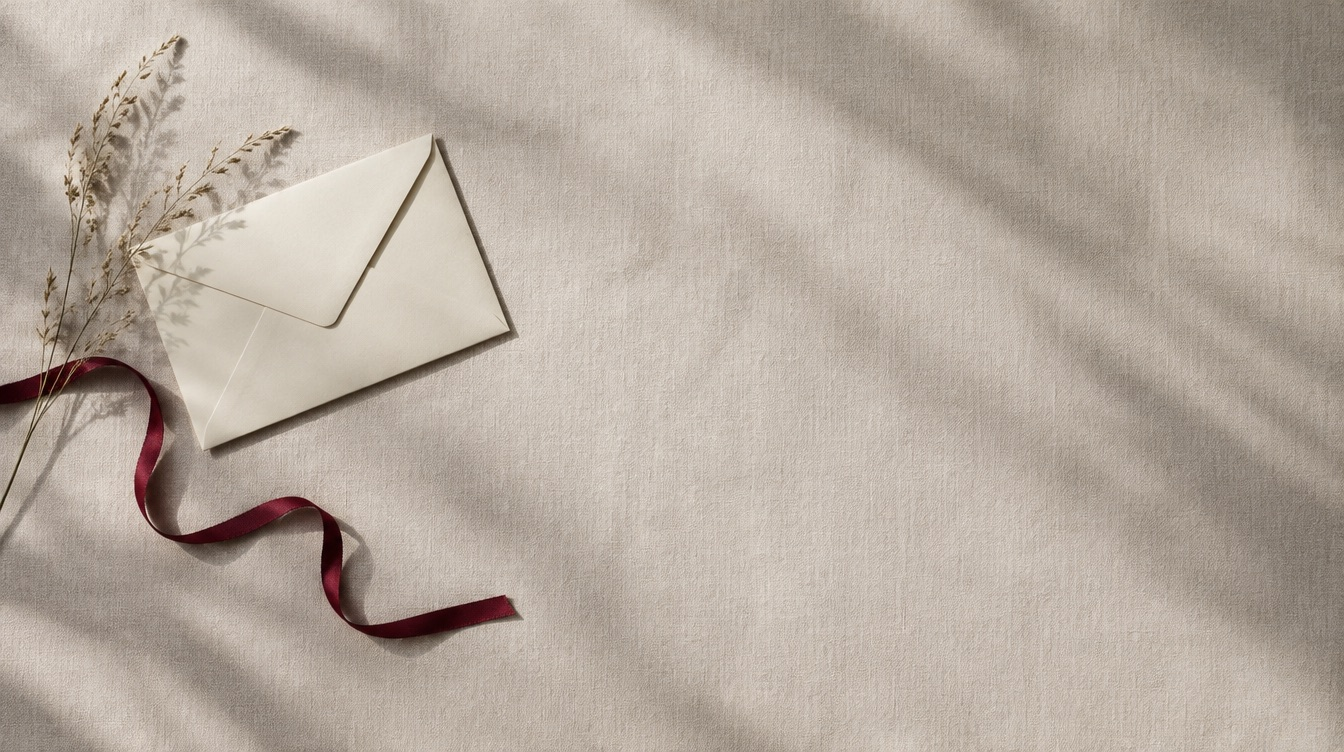
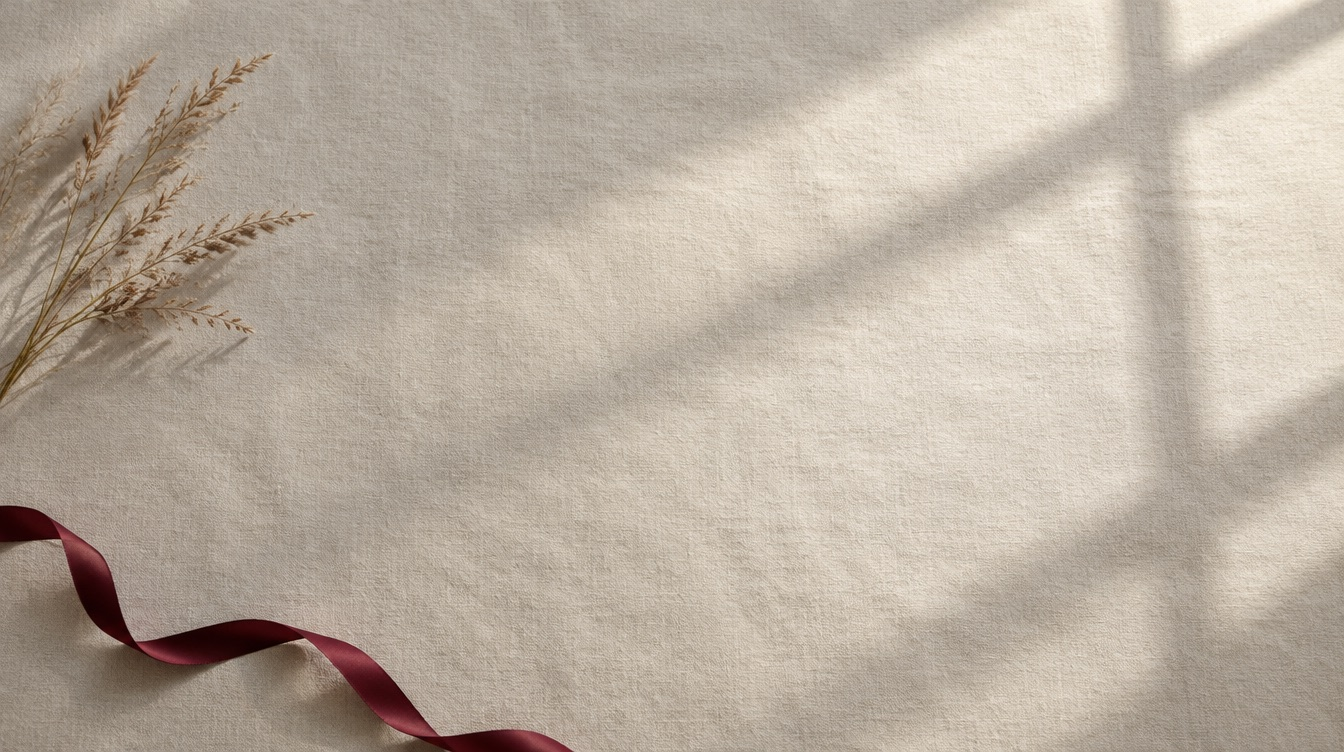
Products and Gift Vouchers: the photo is the whole hero (full-bleed 16:9, title on it). Products hero is a product photoshoot generated from the real Anubis packshots (HA+ Serum, Bakuchiol TRX 3.0, Thermal Toner on stone and wood risers); a sticky brand bar (All · Anubis Barcelona · V10 Plus · ELEME

diff --git a/src/assets/css/main.css b/src/assets/css/main.css
@@ -2075,3 +2075,50 @@ html.cd-lock { overflow: hidden; }
 .ghero-card { position: absolute; left: 50%; top: 14%; width: 40%; transform: rotate(-5deg); box-shadow: 0 30px 60px -28px rgba(65, 63, 66, .7), 0 4px 14px -8px rgba(65, 63, 66, .4); }
 .ghero-card img { display: block; width: 100%; height: auto; } .ghero-card:has(img[hidden]) { display: none; }
 @media (max-width: 700px) { .phero, .ghero { aspect-ratio: 4 / 3; } .phero-item { bottom: 20%; height: 44%; } .phero-item-1 { left: 36%; } .phero-item-2 { left: 56%; height: 40%; } .phero-item-3 { left: 77%; height: 48%; } .ghero-card { left: 44%; top: 20%; width: 50%; } }
+
+/* full-bleed photographic hero (Products, Gift Vouchers): the photo is the whole hero, 16:9, title on it, cut-outs slide in */
+.fhero { position: relative; margin-top: calc(var(--header-h) + var(--banner-h)); width: 100%; aspect-ratio: 16 / 9; max-height: calc(100svh - var(--header-h) - var(--banner-h)); overflow: hidden; background: var(--tint); }
+.fhero-bg { position: absolute; inset: 0; width: 100%; height: 100%; object-fit: cover; }
+.fhero-layers { position: absolute; inset: 0; pointer-events: none; }
+.fhero-layers a { pointer-events: auto; }
+.fhero-text { position: absolute; left: 0; right: 0; top: clamp(28px, 5vw, 72px); }
+.fhero-text .crumbs { margin-bottom: 18px; }
+.fhero-text h1 { margin: 0; color: var(--primary-dark); max-width: 14ch; }
+.fhero-layer { position: absolute; opacity: 0; transform: translateY(-140%); transition: transform 1.3s cubic-bezier(.2, .8, .2, 1), opacity .9s ease; will-change: transform, opacity; }
+.fhero.is-in .fhero-layer { opacity: 1; transform: none; }
+html.reduced .fhero-layer { opacity: 1; transform: none; transition: none; }
+/* products: three packshots standing on the countertop */
+.fhero-products .phero-item { bottom: 20%; height: 50%; display: block; }
+.fhero-products .phero-item img { height: 100%; width: auto; display: block; filter: drop-shadow(14px 18px 22px rgba(65, 63, 66, .28)) drop-shadow(2px 4px 4px rgba(65, 63, 66, .18)); transition: transform .5s var(--ease, ease); }
+.fhero-products .phero-item:hover img { transform: translateY(-4px); }
+.fhero-products .phero-item-1 { left: 50%; transition-delay: .1s; } .fhero-products .phero-item-2 { left: 63%; height: 45%; transition-delay: .25s; } .fhero-products .phero-item-3 { left: 77%; height: 54%; transition-delay: .4s; }
+/* gift vouchers: the envelope, then the real voucher card, land on the linen */
+.fhero-gift .ghero-env { left: 16%; top: 22%; width: 28%; transform: translateY(-160%) rotate(-14deg); filter: drop-shadow(10px 16px 18px rgba(65, 63, 66, .3)); }
+.fhero-gift.is-in .ghero-env { transform: rotate(-8deg); transition-delay: .15s; }
+.fhero-gift .ghero-card { left: 47%; top: 26%; width: 38%; transform: translateY(-170%) rotate(4deg); box-shadow: 0 30px 60px -28px rgba(65, 63, 66, .7), 0 4px 14px -8px rgba(65, 63, 66, .4); opacity: 0; }
+.fhero-gift .ghero-card img { display: block; width: 100%; height: auto; }
+.fhero-gift.is-in .ghero-card.has-img { opacity: 1; transform: rotate(-4deg); transition-delay: .55s; }
+.fhero-gift .ghero-card:not(.has-img) { transition: none; }
+.fhero + .wrap, .fhero + .section-sm { margin-top: clamp(40px, 5vw, 72px); }
+@media (max-width: 760px) {
+  .fhero { aspect-ratio: 4 / 5; max-height: none; }
+  .fhero-text { top: 22px; }
+  .fhero-products .phero-item { bottom: 22%; height: 40%; } .fhero-products .phero-item-1 { left: 30%; } .fhero-products .phero-item-2 { left: 52%; height: 36%; } .fhero-products .phero-item-3 { left: 73%; height: 44%; }
+  .fhero-gift .ghero-env { left: 8%; top: 34%; width: 46%; } .fhero-gift .ghero-card { left: 36%; top: 50%; width: 58%; }
+}
+
+/* full-bleed hero: breadcrumb in the site's small caps; products hero carries the products in the photo */
+.fhero-text .crumbs { font-size: 11px; letter-spacing: .14em; text-transform: uppercase; color: var(--muted-c); display: flex; gap: 8px; flex-wrap: wrap; margin-bottom: 22px; }
+.fhero-text .crumbs a { color: var(--primary-dark); } .fhero-text .crumbs span[aria-hidden] { opacity: .5; }
+.fhero-products .fhero-layers { display: none; }
+/* brand bar under the Products hero: one row of brand names, sticky under the header, the brand in view underlined */
+.brand-bar { position: sticky; top: var(--header-h); z-index: 20; background: var(--warm-white); border-bottom: 1px solid var(--rule); }
+.brand-bar-inner { display: flex; justify-content: center; gap: clamp(22px, 4vw, 56px); overflow-x: auto; scrollbar-width: none; -webkit-overflow-scrolling: touch; }
+.brand-bar-inner::-webkit-scrollbar { display: none; }
+.brand-bar a { position: relative; flex: none; padding: 18px 2px; font-family: var(--f-head); font-weight: 500; font-size: clamp(17px, 1.6vw, 21px); letter-spacing: .03em; color: var(--primary-dark); white-space: nowrap; transition: color .2s; }
+.brand-bar a::after { content: ""; position: absolute; left: 0; right: 0; bottom: -1px; height: 1.5px; background: var(--dark-red); transform: scaleX(0); transition: transform .3s var(--ease, ease); }
+.brand-bar a:hover { color: var(--dark-red); } .brand-bar a.is-on { color: var(--dark-red); } .brand-bar a.is-on::after { transform: scaleX(1); }
+.products-body { padding-top: clamp(36px, 4vw, 56px) !important; }
+.fhero + .brand-bar + .products-body { margin-top: 0; }
+.pb { scroll-margin-top: calc(var(--header-h) + 72px); }
+@media (max-width: 760px) { .brand-bar-inner { justify-content: flex-start; gap: 26px; } .brand-bar a { padding: 14px 2px; font-size: 17px; } }

diff --git a/src/assets/js/gift.js b/src/assets/js/gift.js
@@ -26,7 +26,7 @@
       $$('[data-id]', itemsBox).forEach((b) => b.addEventListener('click', () => { state.item = state.items.find((i) => i.item_id === b.dataset.id); $$('[data-gift-chosen]').forEach((c) => { c.innerHTML = `<b>${esc(state.item.name)}</b>${state.item.description ? `<p>${esc(state.item.description)}</p>` : ''}`; }); go(state.designs.length > 1 ? 2 : 3); }));
     };
     // 2 · the card design: the chosen one large, the others as thumbnails; the card at the top of the page follows it
-    const setDesign = (d) => { state.design = d; if (!d) return; cardArt.src = API + d.image; cardArt.alt = d.name; cardArt.hidden = false; const big = $('.gv-design-big img', designBox); if (big && big.src !== API + d.image) { big.style.opacity = 0; setTimeout(() => { big.src = API + d.image; big.alt = d.name; big.style.opacity = 1; }, 180); } };
+    const setDesign = (d) => { state.design = d; if (!d) return; cardArt.src = API + d.image; cardArt.alt = d.name; cardArt.hidden = false; cardArt.closest('[data-gift-hero-card]')?.classList.add('has-img'); const big = $('.gv-design-big img', designBox); if (big && big.src !== API + d.image) { big.style.opacity = 0; setTimeout(() => { big.src = API + d.image; big.alt = d.name; big.style.opacity = 1; }, 180); } };
     const renderDesigns = () => {
       if (!state.designs.length) { designBox.hidden = true; return; }
       designBox.innerHTML = `<div class="gv-design-big"><img src="${API}${state.designs[0].image}" alt="${esc(state.designs[0].name)}"></div>${state.designs.length > 1 ? `<div class="gv-design-row">${state.designs.map((d, n) => `<label class="gv-design ${n === 0 ? 'on' : ''}"><input type="radio" name="design" value="${d.design_id}" ${n === 0 ? 'checked' : ''}><img src="${API}${d.image}" alt="${esc(d.name)}" loading="lazy"></label>`).join('')}</div>` : ''}`;

diff --git a/src/assets/js/shop.js b/src/assets/js/shop.js
@@ -110,6 +110,20 @@
   }
   if (!$('[data-cart-page]') && !$('[data-checkout]')) $$('.cart-link').forEach((a) => a.addEventListener('click', (e) => { if (!cart.count()) return; e.preventDefault(); openDrawer(); }));
 
+  /* ---------- /products/: brand bar follows the brand in view ---------- */
+  const bar = $('[data-brand-bar]');
+  if (bar) {
+    const links = $$('a[data-brand]', bar), sections = $$('.pb[id]');
+    const setOn = (id) => links.forEach((a) => a.classList.toggle('is-on', a.dataset.brand === id));
+    links.forEach((a) => a.addEventListener('click', (e) => { const id = a.dataset.brand, el = id === 'all' ? $('.products-body') : document.getElementById(id); if (!el || (a.getAttribute('href') || '').startsWith('/') && id !== 'all') return; e.preventDefault(); setOn(id); (window.__ewScrollTo || ((t) => t.scrollIntoView({ behavior: 'smooth' })))(el); history.replaceState(null, '', id === 'all' ? location.pathname : '#' + id); }));
+    if (sections.length && 'IntersectionObserver' in window) {
+      let current = null;
+      const io = new IntersectionObserver((entries) => { entries.forEach((en) => { if (en.isIntersecting) current = en.target.id; }); if (current) setOn(current); }, { rootMargin: '-45% 0px -50% 0px' });
+      sections.forEach((sct) => io.observe(sct));
+      window.addEventListener('scroll', () => { if (window.scrollY < 300) setOn('all'); }, { passive: true });
+    }
+  }
+
   /* ---------- /cart/ ---------- */
   const cartPage = $('[data-cart-page]');
   if (cartPage) {

diff --git a/src/assets/js/main.js b/src/assets/js/main.js
@@ -548,7 +548,7 @@
     const w = $('[data-rv-write]'); if (w && d.places[0]?.writeReviewUrl) w.href = d.places[0].writeReviewUrl;
     const up = $('[data-rv-updated]'); if (up) up.textContent = 'Live from Google · updated ' + new Date(d.snapshotDate).toLocaleDateString('en-SG', { day: 'numeric', month: 'short', year: 'numeric' });
   }
-  const boot = () => { heroSlides(); logoWall(); pathPhotos(); bookCard(); reviewCarousels(); contactExpand(); bookSteps(); walkIn(); liveReviews(); reveals(); rise(); mapLocations(); steps(); concerns(); carousel(); sigTiles(); revealCards(); finder(); magnetic(); requestAnimationFrame(() => ScrollTrigger.refresh()); };
+  const boot = () => { setTimeout(() => $$('[data-fhero]').forEach((h) => h.classList.add('is-in')), firstVisit && isHome ? 2600 : firstVisit ? 1900 : 250); heroSlides(); logoWall(); pathPhotos(); bookCard(); reviewCarousels(); contactExpand(); bookSteps(); walkIn(); liveReviews(); reveals(); rise(); mapLocations(); steps(); concerns(); carousel(); sigTiles(); revealCards(); finder(); magnetic(); requestAnimationFrame(() => ScrollTrigger.refresh()); };
   (document.fonts?.ready || Promise.resolve()).then(() => enterPage(() => { steamHero(); boot(); }));
   window.addEventListener('load', () => ScrollTrigger.refresh());
 })();
